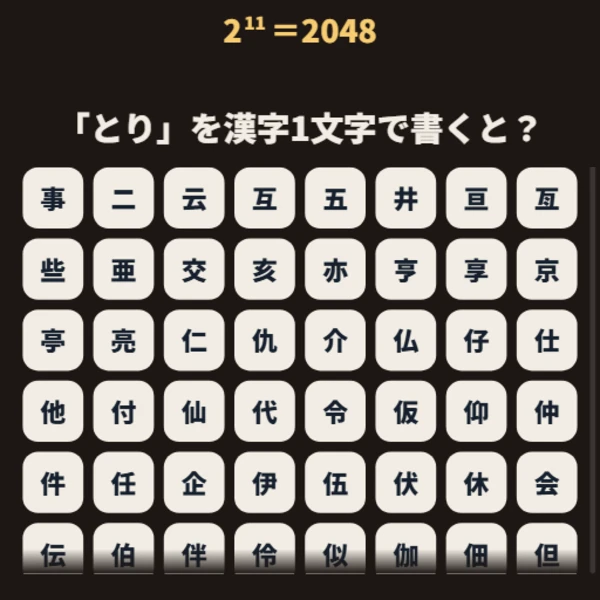
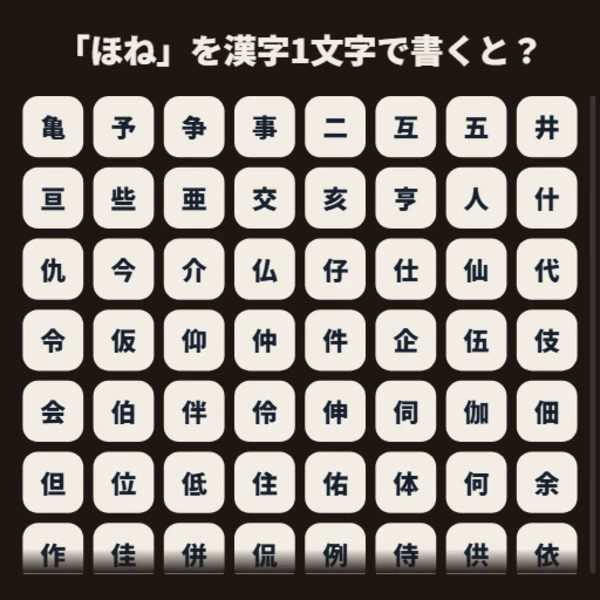
2ⁿ択クイズのサムネを問題文と選択肢だけにする

diff --git a/games/_baibai-quiz/index.html b/games/_baibai-quiz/index.html
@@ -660,8 +660,8 @@
      持ち主の指示で入れたもの。localhost / 127.0.0.1 で開いたときだけ効く（公開サイトでは動かない）。
        C … 正解を選ぶ（正解の位置までスクロールする）
        ?stage=2048 … 開始画面を飛ばし、その択数の段から始める
-     サムネ: node games/_tools/thumb.js baibai-quiz --query stage=2048 -k なし -t 2 --top 6 --toph 150
-       （上の帯は択数と問題文だけ、下の帯は段のすき間から始まる切り取り） */
+     サムネ: node games/_tools/thumb.js baibai-quiz --query stage=2048 -k なし -t 2 --top 76 --toph 86
+       （上の帯は問題文だけ、下の帯は段のすき間から始まる切り取り） */
   var DEBUG_OK = /^(localhost|127\.0\.0\.1)$/.test(location.hostname);
   var DEBUG_STAGE = (function () {
     var m = DEBUG_OK && /[?&]stage=(\d+)(?:&|$)/.exec(location.search), n = m ? +m[1] : 0;
